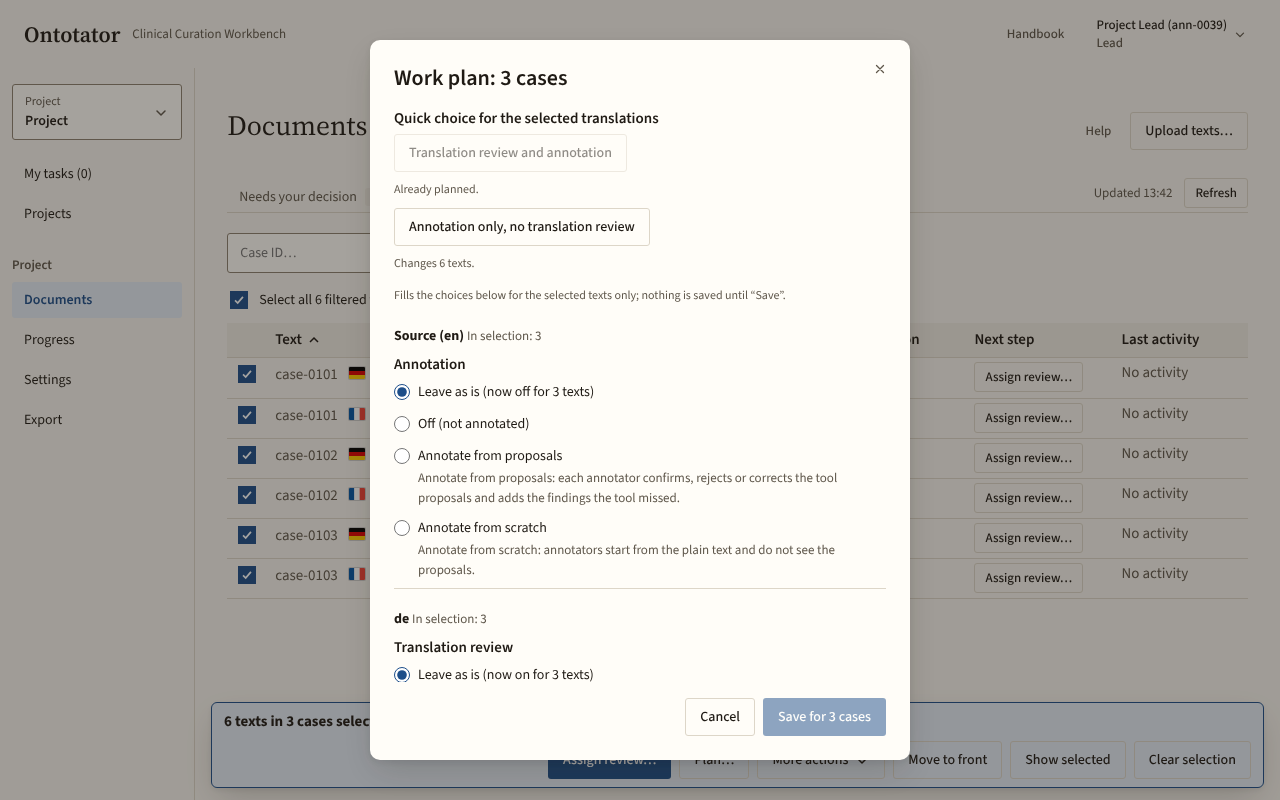
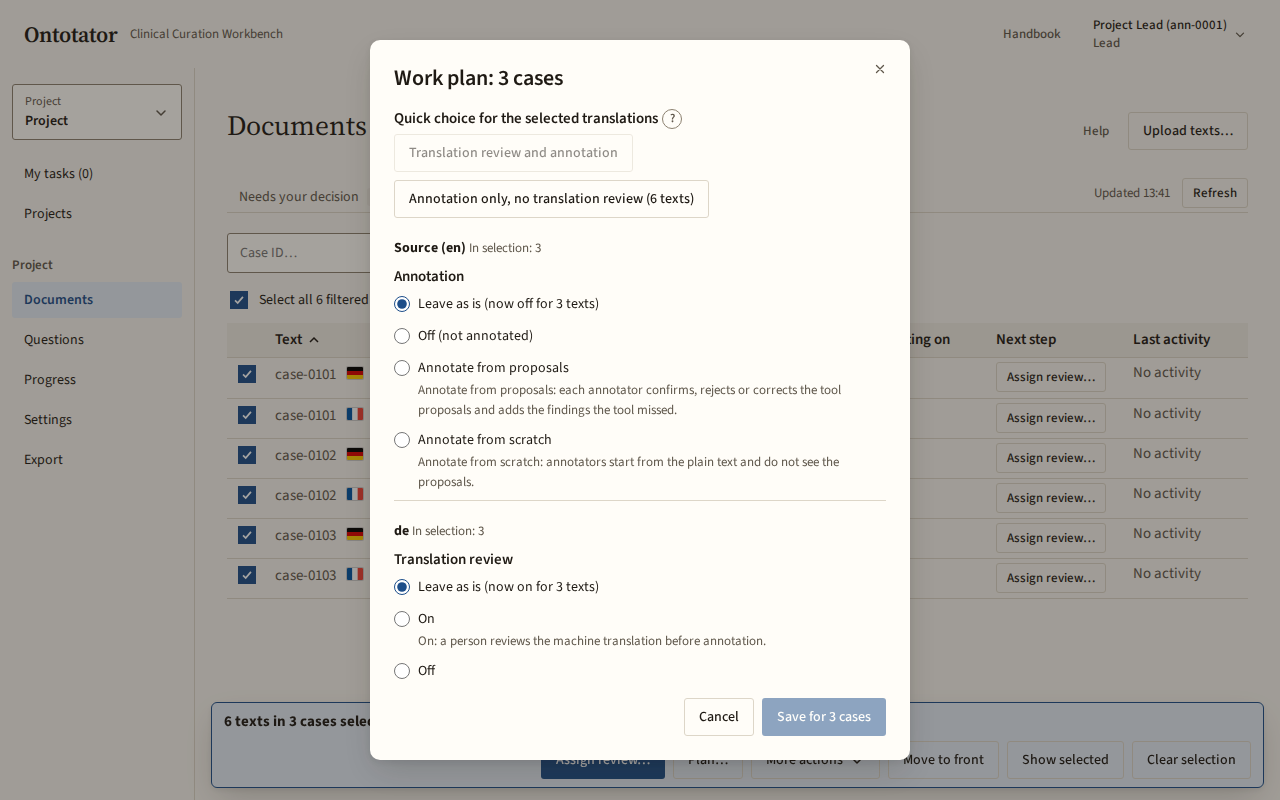
ui: Work plan dialog explains on demand; quick choices name how many texts they change
Issue 556, PR 2 of the screen-by-screen series. The quick choice's hint and the
reason's hint move behind (?) buttons (Field gets a help prop); the acceptance
note joins the reason's help; each quick choice names how many texts it
changes, and one that changes nothing is greyed with its reason. Behaviour
unchanged.

diff --git a/frontend/src/documents/PlanDialog.tsx b/frontend/src/documents/PlanDialog.tsx
@@ -3,7 +3,7 @@ import { api, ApiError, type BulkPlanRequest, type BulkPreview, type BulkResult,
 import { ErrorNotice } from "../admin/ErrorNotice";
 import { plural } from "../app/labels";
 import { personLabel, textLabel } from "../app/identity";
-import { Button, Checkbox, Dialog, InlineMessage, Textarea, type TriState } from "../ui";
+import { Button, Checkbox, Dialog, HelpButton, HelpText, InlineMessage, ReasonButton, Textarea, type TriState, useHelp } from "../ui";
 import { allKeep, changedChoices, languageName, planReport, PRESET_LABELS, presetChoices, SOURCE_KEY, type PlanChoices, type PlanPreset } from "./planSummary";
 import { ANNOTATION_LABELS, PlanOption, proposalsHelp, REVIEW_HELP, SCRATCH_HELP } from "./PlanSteps";
 
@@ -26,7 +26,7 @@ const CHANGED_MESSAGE = "This plan changed. Reloaded the current plan.";
 const CHECKING = "Checking consequences…";
 /** The reason is kept with the plan change; the final export names it for texts taken out of the plan. */
 const REASON_HINT = "Kept with the change. The final export names it for texts you take out of the plan.";
-const REASON_HINT_ACCEPTANCE = "Kept with the acceptance and the change. The final export names it for texts you take out of the plan.";
+const REASON_HINT_ACCEPTANCE = "Kept with the change. When you accept translations, it is also kept with the acceptance: the acceptance is recorded with your name, the reason and the time. The final export names it for texts you take out of the plan.";
 
 const hasConsequences = (c: ConsequencesView): boolean => !!(c.withdrawn.length || c.finals_leaving.length || c.restored.length || c.open_reports?.length);
 /** "Leave as is (now on for 12, off for 8)" / "Leave as is (now off for 2 texts)": the current values in the selection (M2 F27, B1-2). */
@@ -40,6 +40,9 @@ const keptReviewText = (kept: number): string => `${plural(kept, "text")} ${kept
 /** The effect line under a quick choice: "Changes 12 texts" / "Already planned" (+ the started reviews it keeps). */
 export const presetEffectText = ({ change, kept }: { change: number; kept: number }): string =>
   `${change === 0 ? "Already planned." : `Changes ${plural(change, "text")}.`}${kept > 0 ? ` ${keptReviewText(kept)}` : ""}`;
+/** "Translation review and annotation (12 texts)": a quick choice names how many texts it changes (issue 556). */
+export const presetLabel = (preset: PlanPreset, effect?: { change: number }): string =>
+  (effect && effect.change > 0 ? `${PRESET_LABELS[preset]} (${plural(effect.change, "text")})` : PRESET_LABELS[preset]);
 type AnnotationChoice = "keep" | "off" | "on" | "proposals" | "scratch";
 /** "on" = annotate with each text's mode kept (a quick-action preset); the mode radios set a mode. */
 const annotationChoice = (choice: PlanChoices[string] | undefined): AnnotationChoice => {
@@ -96,7 +99,6 @@ function consequenceGroups(consequences: ConsequencesView): { language: string; 
 export function PlanDialog({ projectKey, caseIds, rows, initial, onClose, onSaved }: PlanDialogProps): JSX.Element {
   const ids = useId().replace(/:/g, "");
   const summaryId = `${ids}-summary`;
-  const reasonId = `${ids}-save-reason`;
   const caseKey = JSON.stringify(caseIds);
   const rowsKey = JSON.stringify(rows ?? []);
   /** Translation languages of the selected texts (not of their whole cases). */
@@ -110,6 +112,7 @@ export function PlanDialog({ projectKey, caseIds, rows, initial, onClose, onSave
   const [reload, setReload] = useState(0);
   const [step, setStep] = useState<{ kind: "edit" } | { kind: "confirm"; consequences: ConsequencesView }>({ kind: "edit" });
   const [understood, setUnderstood] = useState(false);
+  const quickHelp = useHelp();
   const [accept, setAccept] = useState<Record<string, boolean>>({});
   const [reason, setReason] = useState("");
   const [saving, setSaving] = useState(false);
@@ -226,9 +229,9 @@ export function PlanDialog({ projectKey, caseIds, rows, initial, onClose, onSave
   const title = `Work plan: ${plural(caseIds.length, "case")}`;
 
   const footer = <>
-    <span id={reasonId} className="dialog-footer-reason" hidden={!blocked || blocked === summary}>{blocked}</span>
     {confirming ? <Button onClick={() => { setStep({ kind: "edit" }); setUnderstood(false); }}>Back</Button> : <Button onClick={onClose}>Cancel</Button>}
-    <Button variant="primary" loading={saving} aria-disabled={blocked ? true : undefined} aria-describedby={blocked ? reasonId : undefined} onClick={save}>Save for {plural(caseIds.length, "case")}</Button>
+    {/* Issue 556 (rule 4): the greyed Save says why on hover, focus and press, not in a line before the buttons. */}
+    <ReasonButton variant="primary" loading={saving} reason={saving ? null : blocked || null} onClick={save}>Save for {plural(caseIds.length, "case")}</ReasonButton>
   </>;
 
   return <Dialog open title={title} size="md" onClose={onClose} footer={footer}>
@@ -236,20 +239,18 @@ export function PlanDialog({ projectKey, caseIds, rows, initial, onClose, onSave
       {notice && <InlineMessage tone="info">{notice}</InlineMessage>}
       {!preview && previewError === undefined && <p className="field-hint">{CHECKING}</p>}
       {previewError !== undefined && <><ErrorNotice error={previewError} /><Button size="sm" onClick={() => setReload(value => value + 1)}>Retry</Button></>}
-      {preview && !confirming && textLanguages.length > 0 && <fieldset className="plan-step plan-quick-choice">
-        <legend>Quick choice for the selected translations</legend>
+      {preview && !confirming && textLanguages.length > 0 && <fieldset className="plan-step plan-quick-choice" aria-labelledby={`${ids}-quick`}>
+        <legend><span id={`${ids}-quick`}>Quick choice for the selected translations</span><HelpButton help={quickHelp} topic="Quick choice" /></legend>
+        <HelpText help={quickHelp}><p>Fills the choices below for the selected texts only; nothing is saved until “Save”.</p></HelpText>
         <div className="plan-quick-choice-actions">
           {(Object.keys(PRESET_LABELS) as PlanPreset[]).map(preset => {
             const effect = presetEffects[preset];
-            const noteId = `${ids}-preset-${preset}`;
             const none = effect?.change === 0;
-            return <div key={preset} className="plan-quick-choice-item">
-              <Button aria-disabled={none || undefined} aria-describedby={effect ? noteId : undefined} onClick={() => { if (!none) applyPreset(preset); }}>{PRESET_LABELS[preset]}</Button>
-              {effect && <span id={noteId} className="field-hint">{presetEffectText(effect)}</span>}
-            </div>;
+            // Issue 556: the button names how many texts it changes; an already planned choice is greyed with its reason.
+            return <ReasonButton key={preset} reason={none ? presetEffectText(effect) : null}
+              onClick={() => { if (!none) applyPreset(preset); }}>{presetLabel(preset, effect)}</ReasonButton>;
           })}
         </div>
-        <p className="field-hint">Fills the choices below for the selected texts only; nothing is saved until “Save”.</p>
       </fieldset>}
       {preview && !confirming && languages.map(language => {
         const count = language.cases_in_selection === totalCases ? String(language.cases_in_selection) : `${language.cases_in_selection} of ${totalCases}`;
@@ -287,11 +288,10 @@ export function PlanDialog({ projectKey, caseIds, rows, initial, onClose, onSave
           {language.in_review > 0 && <p>{language.in_review} in review: wait for the review or withdraw it first.</p>}
           {acceptable(language) && <Checkbox id={checkboxId} label="These translations were reviewed outside Ontotator — accept them as they are" checked={!!accept[language.key]} onChange={event => setAccept(value => ({ ...value, [language.key]: event.target.checked }))} />}
           {language.marked_in_package > 0 && <p className="field-hint">{language.marked_in_package} already marked as reviewed in the package metadata need nothing.</p>}
-          <p className="field-hint">The acceptance is recorded with your name, the reason and the time.</p>
         </div>;
       })}
       {!confirming && <Textarea id={`${ids}-reason`} label={acceptLanguages.length ? "Reason" : "Reason (optional)"} required={acceptLanguages.length > 0} maxLength={2000} value={reason} onChange={event => setReason(event.target.value)}
-        hint={acceptLanguages.length ? REASON_HINT_ACCEPTANCE : REASON_HINT} />}
+        help={{ topic: "Reason", content: <p>{acceptance.length ? REASON_HINT_ACCEPTANCE : REASON_HINT}</p> }} />}
       {confirming && <div className="work-plan-confirm">
         {groups.map(group => <div key={group.language} className="work-plan-warning">
           <strong>{group.language} has work in {group.cases} of these cases.</strong>

diff --git a/frontend/tests/documents/planDialog.test.tsx b/frontend/tests/documents/planDialog.test.tsx
@@ -80,11 +80,11 @@ describe("PlanDialog", () => {
       ? preview({ cases: 2, languages: [lang("source", 1, null, [0, 1]), lang("de", 1, [0, 1], [0, 1], { will_change: 1 })] }) : preview());
     renderDialog({ rows });
     const quick = await screen.findByRole("group", { name: "Quick choice for the selected translations" });
-    fireEvent.click(within(quick).getByRole("button", { name: "Translation review and annotation" }));
+    fireEvent.click(within(quick).getByRole("button", { name: /^Translation review and annotation/ }));
     await waitFor(() => expect(lastPreviewBody()).toEqual({ rows, languages: { de: { review: "on", annotate: "on" } } }));
     expect((await radio("de", "Translation review", "On")).checked).toBe(true);
     expect(screen.queryByRole("region", { name: /^fr In selection/ })).toBeNull();
-    fireEvent.click(within(quick).getByRole("button", { name: "Annotation only, no translation review" }));
+    fireEvent.click(within(quick).getByRole("button", { name: /^Annotation only, no translation review/ }));
     await waitFor(() => expect(lastPreviewBody()).toEqual({ rows, languages: { de: { review: "off_unstarted", annotate: "on" } } }));
     expect((await radio("de", "Translation review", "Off")).checked).toBe(true);
     expect(api.saveWorkPlans).not.toHaveBeenCalled();
@@ -100,11 +100,13 @@ describe("PlanDialog", () => {
     });
     renderDialog({ rows });
     const quick = await screen.findByRole("group", { name: "Quick choice for the selected translations" });
-    const both = within(quick).getByRole("button", { name: "Translation review and annotation" });
+    const both = within(quick).getByRole("button", { name: /^Translation review and annotation/ });
     await waitFor(() => expect(both.getAttribute("aria-disabled")).toBe("true"));
     expect(description(both)).toBe("Already planned.");
-    const only = within(quick).getByRole("button", { name: "Annotation only, no translation review" });
-    await waitFor(() => expect(description(only)).toBe("Changes 1 text. 1 text keeps its translation review: it has started or is done."));
+    const only = within(quick).getByRole("button", { name: /^Annotation only, no translation review/ });
+    // Issue 556: the button names how many texts it changes; no text under it.
+    await waitFor(() => expect(only.textContent).toBe("Annotation only, no translation review (1 text)"));
+    expect(description(only)).toBe("");
     fireEvent.click(both);
     expect((await radio("de", "Translation review", /^Leave as is/)).checked).toBe(true);
     fireEvent.click(only);
@@ -212,7 +214,10 @@ describe("PlanDialog", () => {
     await choose("de", "Annotation", "Off (not annotated)");
     const reason = screen.getByLabelText(/^Reason \(optional\)/) as HTMLTextAreaElement;
     expect(reason.required).toBe(false);
-    expect(description(reason)).toContain("The final export names it for texts you take out of the plan.");
+    // Issue 556: the explanation is behind (?) next to the label.
+    const help = screen.getByRole("button", { name: "Help: Reason" });
+    fireEvent.click(help);
+    expect(document.getElementById(help.getAttribute("aria-controls")!)!.textContent).toContain("The final export names it for texts you take out of the plan.");
     await waitFor(() => expect(save().getAttribute("aria-disabled")).toBeNull());
     fireEvent.change(reason, { target: { value: "  Adults only in this study.  " } });
     fireEvent.click(save());

diff --git a/frontend/src/ui/Field.tsx b/frontend/src/ui/Field.tsx
@@ -1,10 +1,16 @@
 import { cloneElement, type ReactElement, type ReactNode } from "react";
+import { HelpButton, HelpText, useHelp } from "./Help";
 
 export interface FieldOwn {
   id: string;
   label: ReactNode;
   hint?: ReactNode;
   error?: ReactNode;
+  /**
+   * An explanation on demand (issue 556): a (?) after the label that opens this text under it. `topic` names the
+   * button ("Help: Reason"); a hint that fits goes into the placeholder instead.
+   */
+  help?: { topic: string; content: ReactNode };
 }
 
 interface ControlProps {
@@ -19,7 +25,8 @@ export interface FieldProps extends FieldOwn {
   children: ReactElement<ControlProps>;
 }
 
-export function Field({ id, label, hint, error, required, children }: FieldProps) {
+export function Field({ id, label, hint, error, required, help, children }: FieldProps) {
+  const helpState = useHelp();
   const hasHint = hint != null && hint !== false && hint !== "";
   const hasError = !!error;
   const isRequired = required ?? children.props.required;
@@ -28,10 +35,12 @@ export function Field({ id, label, hint, error, required, children }: FieldProps
     ...(hasHint ? [`${id}-hint`] : []),
     ...(hasError ? [`${id}-error`] : []),
   ])].join(" ") || undefined;
+  const labelElement = <label className="form-label" htmlFor={id}>{label}{isRequired && " (required)"}</label>;
 
   return (
     <div className="form-group">
-      <label className="form-label" htmlFor={id}>{label}{isRequired && " (required)"}</label>
+      {help ? <div className="form-label-row">{labelElement}<HelpButton help={helpState} topic={help.topic} /></div> : labelElement}
+      {help && <HelpText help={helpState}>{help.content}</HelpText>}
       {cloneElement(children, { id, required: isRequired, "aria-describedby": describedBy, "aria-invalid": hasError })}
       {hasHint && <div id={`${id}-hint`} className="field-hint">{hint}</div>}
       {hasError && <div id={`${id}-error`} className="field-hint field-hint-error" role="alert">{error}</div>}

diff --git a/frontend/tests/ui/help.test.tsx b/frontend/tests/ui/help.test.tsx
@@ -1,7 +1,7 @@
 /** Issue 556: the (?) help button and the greyed button that says its reason (ui/Help.tsx). */
 import { cleanup, fireEvent, render, screen } from "@testing-library/react";
 import { afterEach, expect, it, vi } from "vitest";
-import { HelpButton, HelpText, ReasonButton, useHelp } from "../../src/ui";
+import { HelpButton, HelpText, ReasonButton, Textarea, useHelp } from "../../src/ui";
 
 afterEach(cleanup);
 
@@ -31,6 +31,14 @@ it("the (?) is a disclosure: named by its topic, toggled by click, closed by Esc
   // A closed explanation lets Escape through.
   fireEvent.keyDown(button, { key: "Escape" });
   expect(outer).toHaveBeenCalledTimes(1);
+});
+
+it("a field's help is a (?) after its label, outside the label, so the field keeps its name", () => {
+  render(<Textarea id="reason" label="Reason" help={{ topic: "Reason", content: <p>Kept with the change.</p> }} />);
+  expect(screen.getByRole("textbox", { name: "Reason" })).toBeTruthy();
+  const button = screen.getByRole("button", { name: "Help: Reason" });
+  fireEvent.click(button);
+  expect(document.getElementById(button.getAttribute("aria-controls")!)!.textContent).toBe("Kept with the change.");
 });
 
 it("a greyed button says its reason: as its description, and visibly when focused or pressed", () => {

diff --git a/frontend/browser/lead-workflow.spec.ts b/frontend/browser/lead-workflow.spec.ts
@@ -425,7 +425,12 @@ test("ACCEPTANCE: annotate without review", async ({ page }) => {
   const block = dialog.getByRole("group", { name: "Acceptance, fr" });
   await expect(block.getByText("fr: 12 of 30 translations are not marked as reviewed in the package. Annotation needs an accepted translation.", { exact: true })).toBeVisible();
   await expect(block.getByText("18 already marked as reviewed in the package metadata need nothing.", { exact: true })).toBeVisible();
-  await expect(block.getByText("The acceptance is recorded with your name, the reason and the time.", { exact: true })).toBeVisible();
+  // Issue 556: how the acceptance is recorded is behind the (?) of the reason.
+  await expect(block).not.toContainText("The acceptance is recorded");
+  const reasonHelp = dialog.getByRole("button", { name: "Help: Reason", exact: true });
+  await reasonHelp.click();
+  await expect(dialog.getByText(/the acceptance is recorded with your name, the reason and the time/)).toBeVisible();
+  await reasonHelp.click();
   const save = dialog.getByRole("button", { name: "Save for 30 cases", exact: true });
   await expect(save).toHaveAttribute("aria-disabled", "true");
 

diff --git a/frontend/src/styles/screens/work-plan.css b/frontend/src/styles/screens/work-plan.css
@@ -13,7 +13,7 @@
 .plan-step { display: grid; gap: var(--space-2); margin: 0; padding: 0; border: 0; min-width: 0; }
 .plan-step > legend { padding: 0; margin-bottom: var(--space-1); font-weight: var(--weight-strong); }
 .plan-quick-choice-actions { display: flex; flex-wrap: wrap; gap: var(--space-2); }
-.plan-quick-choice-item { display: grid; gap: var(--space-1); justify-items: start; }
+.plan-quick-choice > legend { display: flex; align-items: center; }
 .plan-option { display: grid; grid-template-columns: auto 1fr; column-gap: var(--space-2); align-items: center; }
 /* The house radio size (as .form-checkbox), centred on the label line; the label widens the click target. */
 .plan-option > input { width: var(--space-4); height: var(--space-4); margin: 0; accent-color: var(--accent); }

diff --git a/frontend/src/styles/components.css b/frontend/src/styles/components.css
@@ -954,6 +954,10 @@ ul.task-counts { display: flex; flex-wrap: wrap; gap: var(--space-1) var(--space
   background: var(--accent-light); color: var(--text); font-size: var(--size-sm); line-height: var(--leading-sm); overflow-wrap: anywhere;
 }
 .ui-help-text[hidden] { display: none; }
+/* A field label with its (?): the label keeps its own spacing, the (?) sits right after it. */
+.form-label-row { display: flex; align-items: center; margin-bottom: 4px; }
+.form-label-row > .form-label { margin-bottom: 0; }
+.form-group > .ui-help-text { margin-bottom: var(--space-1); }
 .ui-help-text > p { margin: 0; max-width: none; }
 .ui-help-text > p + p { margin-top: var(--space-1); }
 /* A greyed action's reason (rule 4): shown above the button while it is pointed at, focused or pressed. */

diff --git a/frontend/browser/handbook-screenshots.spec.ts b/frontend/browser/handbook-screenshots.spec.ts
@@ -399,7 +399,7 @@ test.describe("lead.md", () => {
     const plan = page.getByRole("dialog", { name: /^Work plan\W+3 cases$/ });
     await expect(plan.getByRole("group", { name: "Quick choice for the selected translations" })).toBeVisible();
     for (const choice of ["Translation review and annotation", "Annotation only, no translation review"]) {
-      await expect(plan.getByRole("button", { name: choice, exact: true })).toBeVisible();
+      await expect(plan.getByRole("button", { name: new RegExp(`^${choice}( \\(\\d+ texts?\\))?$`) })).toBeVisible();
     }
     await expect(plan.getByRole("button", { name: "Save for 3 cases", exact: true })).toBeVisible();
     await shot(page, "lead-work-plan");

diff --git a/frontend/tests/documents/selectionBar.test.tsx b/frontend/tests/documents/selectionBar.test.tsx
@@ -186,7 +186,7 @@ it("after a bulk Undo the toast offers the texts of the withdrawn tasks, also af
 async function planWithPreset(preset: string) {
   fireEvent.click(within(bar()).getByRole("button", { name: "Plan…" }));
   const dialog = await screen.findByRole("dialog", { name: "Work plan: 20 cases" });
-  fireEvent.click(await within(dialog).findByRole("button", { name: preset }));
+  fireEvent.click(await within(dialog).findByRole("button", { name: new RegExp(`^${preset}`) }));
   const save = within(dialog).getByRole("button", { name: "Save for 20 cases" });
   await waitFor(() => expect(save.getAttribute("aria-disabled")).toBeNull());
   await act(async () => { fireEvent.click(save); });

diff --git a/frontend/src/ui/Textarea.tsx b/frontend/src/ui/Textarea.tsx
@@ -4,10 +4,10 @@ import { Field, type FieldOwn } from "./Field";
 export type TextareaProps = FieldOwn & TextareaHTMLAttributes<HTMLTextAreaElement>;
 
 export const Textarea = forwardRef<HTMLTextAreaElement, TextareaProps>(function Textarea(
-  { id, label, hint, error, required, className, ...props }, ref,
+  { id, label, hint, error, required, help, className, ...props }, ref,
 ) {
   return (
-    <Field id={id} label={label} hint={hint} error={error} required={required}>
+    <Field id={id} label={label} hint={hint} error={error} required={required} help={help}>
       <textarea {...props} ref={ref} className={["form-control", className].filter(Boolean).join(" ")} />
     </Field>
   );

diff --git a/frontend/src/ui/TextInput.tsx b/frontend/src/ui/TextInput.tsx
@@ -4,10 +4,10 @@ import { Field, type FieldOwn } from "./Field";
 export type TextInputProps = FieldOwn & InputHTMLAttributes<HTMLInputElement>;
 
 export const TextInput = forwardRef<HTMLInputElement, TextInputProps>(function TextInput(
-  { id, label, hint, error, required, className, ...props }, ref,
+  { id, label, hint, error, required, help, className, ...props }, ref,
 ) {
   return (
-    <Field id={id} label={label} hint={hint} error={error} required={required}>
+    <Field id={id} label={label} hint={hint} error={error} required={required} help={help}>
       <input {...props} ref={ref} className={["form-control", className].filter(Boolean).join(" ")} />
     </Field>
   );

diff --git a/docs/handbook/lead-documents.md b/docs/handbook/lead-documents.md
@@ -335,10 +335,10 @@ A selection holds the texts of at most 2000 cases. With more, the dialog selects
 What for: set the work plan for a selection.
 
 1. Select the texts, then click **Plan…** in the selection bar.
-2. Optional: under **Quick choice for the selected translations**, pick **Translation review and annotation** or **Annotation only, no translation review**.
+2. Optional: under **Quick choice for the selected translations**, pick **Translation review and annotation** or **Annotation only, no translation review**. Each button says how many texts it changes, for example *Translation review and annotation (12 texts)*; one that changes nothing is greyed and says *Already planned.* A quick choice only fills the choices below; nothing is saved until you save.
 3. Or set it per language: **Translation review** and **Annotation**. **Leave as is** keeps the current plan.
 4. Read what will change.
-5. Optional: enter a **Reason (optional)**, for example *Adults only in this study*. It is kept with the change. When you take texts out of the plan, the final export names them with this reason. When you accept translations as reviewed outside Ontotator, the **Reason** is required and also recorded with the acceptance.
+5. Optional: enter a **Reason (optional)**, for example *Adults only in this study*. It is kept with the change. When you take texts out of the plan, the final export names them with this reason. When you accept translations as reviewed outside Ontotator, the **Reason** is required and also recorded with the acceptance, with your name and the time. The (?) next to the field says this in the dialog.
 6. Click the save button, for example *Save for 20 cases*.
 7. If work already exists, the dialog lists what happens to it. Tick **I understand** (or **I understand — withdraw the open tasks**) and save again.
 
